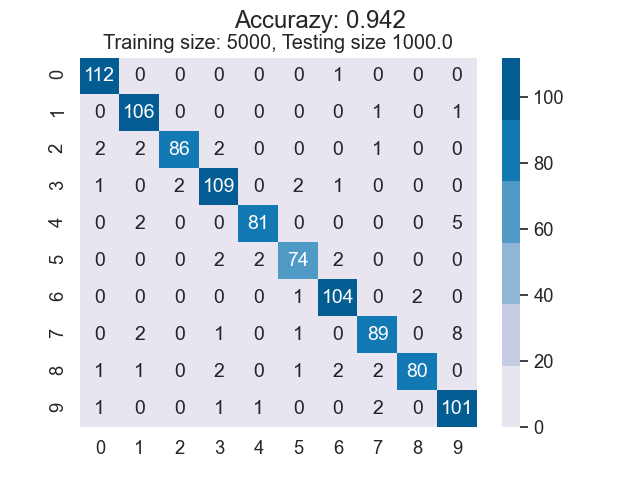
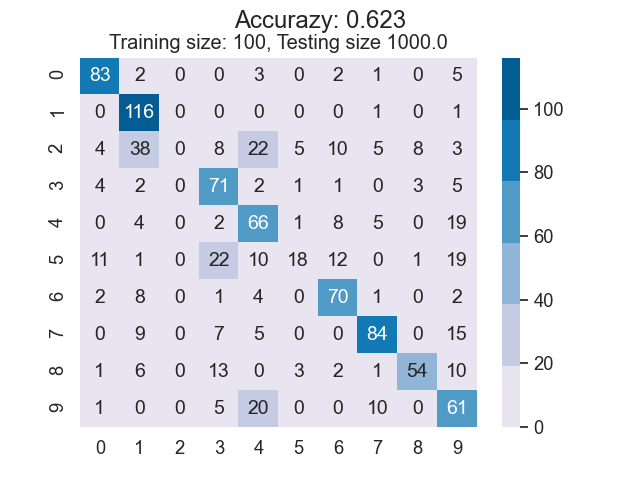
added for work from mum

diff --git a/PyMDE/graphprediction.py b/PyMDE/graphprediction.py
@@ -11,6 +11,8 @@ import sys
 import os
 import seaborn as sns
 import pandas as pd
+from collections import Counter
+
 
 class GraphAnalysis:
     _results_path = r"E:/GIT/Bachelor/PyMDE/Results/"
@@ -62,7 +64,6 @@ class GraphAnalysis:
         pos = self._g.positions()
         for n, ppos in zip(self._g.nodes(), self._embedded):
             pos[n] = ppos
-        
 
         # Creating dist_matrix
         if dist_matrix is not None:
@@ -72,8 +73,10 @@ class GraphAnalysis:
             print("Creating dist matrix")
             arr = self._unembedded
             self._dist_matrix = hf.create_dist_matrix(arr)
-            self.save_distmatrix()
-        print("Symmetric dist_matrix", np.allclose(self._dist_matrix.transpose(), self._dist_matrix))
+        try:
+            print("Symmetric dist_matrix", np.allclose(self._dist_matrix.transpose(), self._dist_matrix))
+        except:
+            print("Not enough space to check symmetri")
         self.print_seperator_line()
 
     def _create_graph(self):
@@ -110,6 +113,7 @@ class GraphAnalysis:
         hf.connect_k_closest_points(self._g, self._dist_matrix, k=neighbours, max_dist=max_dist)
     def skeletonize_graph(self): 
         self._skeleton, self._skel_map = graph.LS_skeleton_and_map(self._g)
+        self._skeleton.cleanup()
     
         
 
@@ -118,14 +122,22 @@ class GraphAnalysis:
         # Empty array for storing the new labels for each index of the skeleton
         self._skel_labels = np.zeros(len(self._skeleton.nodes()))
         self._skel_non_embed = np.zeros((len(self._skeleton.nodes()), 784))
-        self._skeleton.cleanup()
 
-        tree = KDTree(self._embedded)
-        pos = self._skeleton.positions()
-        for n in self._skeleton.nodes():
-            dist, idx = tree.query(pos[n])
-            self._skel_labels[n] = self._labels[idx]
-            self._skel_non_embed[n] = self._unembedded[idx]
+        skel_acum = {x: [] for x in range(0, len(self._skeleton.nodes()))}
+
+        # Gathering closest labels
+        for node, skel_map in zip(self._g.nodes(), self._skel_map):
+            if skel_map >= 0:
+                skel_acum[skel_map].append(int(self._labels[node]))
+        
+        skel_map = set(self._skel_map)
+        skel_nodes = set(self._skeleton.nodes())
+        print(skel_nodes - skel_map)
+        
+
+        # Labels with even amount of two or more labels
+        # Will have to be propogated at a later stage
+        naughty_boys = []
 
     # MISC
     def print_seperator_line(self):
@@ -159,7 +171,7 @@ class GraphAnalysis:
         if show: 
             plt.show()
 
-    def visualize_tests(self, show=True):
+    def visualize_tests(self,  test_size, show=True, save=True):
         if not hasattr(self, "_conf_matrix"):
             raise Exception("Tests not conducted yet.")        
 
@@ -177,10 +189,15 @@ class GraphAnalysis:
                     annot_kws={"size": 14}, 
                     fmt="g").set_title(f"Training size: {self._limit}, Testing size {test_size}")
         
-        os.listdir(self._results_path)
-        
-        name = "PredictHeatmap" + "_Num" + str(self._limit) + "_Testpoints"
-        plt.savefig(self._results_path + "PredictHeatmap.png", format="png")
+        files = os.listdir(self._results_path)
+        name = "PredictHeatmap" + "_Num" + str(self._limit) + "_TestPoints" + str(int(test_size))
+        files = list(filter(lambda x: name in x, files))
+        cnt = len(files)
+        name += "_" + str(cnt)
+
+        # plt.savefig(self._results_path + name + ".png", format="png")
+        if save: plt.savefig(self._results_path + "test.png", format="png")
+        if show: plt.show()
 
 
     # Fields
@@ -190,8 +207,10 @@ class GraphAnalysis:
     def g(self):            return self._g
     def dist_matrix(self):  return self._dist_matrix
     def skeleton(self):    
-        if self._skeleton:
+        if hasattr(self, "_skeleton"):
             return self._skeleton
+        else:
+            raise Exception("Skeleton not created yet")
     
     def save_graph(self):
         graph.save("graph.graph", self._g)
@@ -206,11 +225,11 @@ class GraphAnalysis:
 
 
 if __name__ == "__main__":
-    ganal = GraphAnalysis(limit=5000)
-    
+    ganal = GraphAnalysis(limit=1000)
 
-    ganal.connect_graph(max_dist=1700, neighbours=1)
+    ganal.connect_graph(max_dist=1700, neighbours=2)
     ganal.skeletonize_graph()
     ganal.relabel_skeleton()
-    ganal.test_accuracy(test_size=1000, show=False)
-    ganal.visualize_tests(show=False)
+    test_size = 100
+    ganal.test_accuracy(test_size=test_size, show=False)
+    ganal.visualize_tests(show=False, test_size=test_size, save=True)
